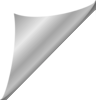
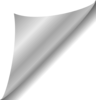
Adding clustering in search results

Changed region(s): [[0.0625, 0.09, 1.0, 1.0]]

diff --git a/peanut/photos/templates/photos/search_webview.html b/peanut/photos/templates/photos/search_webview.html
@@ -48,12 +48,13 @@
 		padding-right: 2px;
 		float:left;
 		position: relative;
+		cursor: pointer;
 		height: {{ imageSize|add:+2 }}px;
 	}
 	.ui-image-count {
 		position:absolute;
 		background-color: transparent;
-		color: #ffffff;
+		color: #000000;
 		top: 39px;
 		left: 37px;
 		font-size: 1em;
@@ -61,8 +62,15 @@
 		width: 39px;
 		height:39px;
 		line-height: 60px;
-		vertical-align: text-bottom;
 		padding-right: 2px;
+	}
+	.ui-image-page-turn {
+		background-color: transparent;
+		position:absolute;
+		top: 48px;
+		left:48px;
+		height: 30px;
+		width: 30px;
 	}
 	.text {
 		font-family: arial;
@@ -140,6 +148,25 @@
 			});
 		}
 		loadImages();
+
+		/*
+			used to display clusters
+		*/
+		$('div.ui-image').click(function() {
+			if ($(this).hasClass('cluster')) {
+				$(this).removeClass('cluster');
+				$(this).children('div').addClass('hidden');
+				current = $(this).next()
+				while (current.hasClass('hidden')){
+					current.show("fast");
+					current = current.next();
+				}
+			}
+			else {
+				window.location.href = $(this).attr('redirect');
+			}
+		});
+
 		var oldVal = "";
 
 		$("#input-search").on("keyup paste", function(){
@@ -178,45 +205,5 @@
 				});
 			}
 		});
-
-		var fixDivRunning = false;
-		function fixDiv() {
-			if (fixDiv == true) {
-				return;
-			}
-			fixDivRunning = true;
-			console.log("window scrolltop: " + $(window).scrollTop());
-			var currentFloatId = -1;
-			for (var i=0; i< $('div.ui-photo-block').length; i++){
-				var id = '#ui-photo-block-'+i;
-				console.log($(id).offset());
-				console.log($(id).height());
-				if ($(window).scrollTop() - $(id).offset().top - $(id).height() >= 0){
-					console.log("above the fold: " + $(id).attr('id'));
-					$(id).children('div.ui-time-header').each(function(){
-						$(this).removeClass('fixed-pos');
-					});
-				}
-				else {
-					if (currentFloatId < 0) {
-						currentFloatId = i;
-						$(id).children('div.ui-time-header').each(function(){
-							console.log("position fixed for: " + i);
-							$(this).addClass('fixed-pos');
-						});
-					}
-					else {
-						console.log("Not the top div: " + $(id).attr('id'));
-						$(id).children('div.ui-time-header').each(function(){
-								$(this).removeClass('fixed-pos');
-						});
-					}
-				}
-
-			}
-			fixDivRunning = false;
-		}
-		//$(window).scroll(fixDiv);
-		//fixDiv();
 		</script>
 </html>

diff --git a/peanut/photos/templates/photos/_timeline_block.html b/peanut/photos/templates/photos/_timeline_block.html
@@ -1,4 +1,5 @@
 {% load dictionary_extras %}
+{% load staticfiles %}
 
 <div class="ui-photo-block hidden">
 	<div class="ui-time-header">
@@ -6,18 +7,19 @@
 	</div>
 	{% for cluster in entry.clusterList %}
 		{% for imageEntry in cluster.photoblocks %}
-			{% if imageEntry.dist == None %}
-				<div class = "ui-image">
-					<a href="{{ thumbnailBasepath }}{{ imageEntry.photo.photoFilename }}"> 
-						<img data-lazy-src="{{ thumbnailBasepath }}{{ resultsDict.photoIdToThumb|lookup:imageEntry.photo.photoId }}" class="lazy" height="{{ imageSize }}px" width="{{ imageSize }}px" 
-						title="{% if debug %} TEXT: {{ imageEntry.photo.text }} | TIME: {{ imageEntry.photo.timeTaken }} | ORIG_CLASSIFICATIONS: {{ imageEntry.photo.classificationData }} {% endif %} "></a>
-					{% if cluster.count > 0 %}
-						<div class="ui-image-count text">
-							{{ cluster.count }}
-						</div>
-					{% endif %}
-				</div>
-			{% endif %}
+			<div class = "ui-image {% if imageEntry.dist == None and cluster.count > 0 %} cluster{% elif imageEntry.dist != None %}hidden {% else %} {% endif %}" redirect="{{ thumbnailBasepath }}{{ imageEntry.photo.photoFilename }}">
+					<img data-lazy-src="{{ thumbnailBasepath }}{{ resultsDict.photoIdToThumb|lookup:imageEntry.photo.photoId }}" class="lazy" height="{{ imageSize }}px" width="{{ imageSize }}px" 
+					title="{% if debug %} TEXT: {{ imageEntry.photo.text }} | TIME: {{ imageEntry.photo.timeTaken }} | ORIG_CLASSIFICATIONS: {{ imageEntry.photo.classificationData }} {% endif %} ">
+				
+				{% if imageEntry.dist == None and cluster.count > 0 %}
+					<div class="ui-image-page-turn">
+						<img src="{% static "page-fold-th.png" %}" height="100%" width="100%" />
+					</div>
+					<div class="ui-image-count text">
+						{{ cluster.count }}
+					</div>
+				{% endif %}
+			</div>
 		{% endfor %}
 	{% endfor %}
 </div>

diff --git a/peanut/photos/cluster_util.py b/peanut/photos/cluster_util.py
@@ -13,7 +13,7 @@ from photos import image_util
 import cv2
 import cv2.cv as cv
 
-### Clustering functions
+### Clustering/deduping functions
 
 """
 	Populates similarity table for a new photo
@@ -26,8 +26,7 @@ def addToClusters(photoId, threshold=None):
 		print "addToClusters: PhotoId {0} not found".format(photoId)
 		return 0
 
-	# check to see if photo has time_taken field. If not, ignore it.
-	if (curPhoto.new_filename == None):
+	if (curPhoto.thumb_filename == None):
 		return 0
 
 	if (threshold == None):
@@ -52,10 +51,8 @@ def addToClusters(photoId, threshold=None):
 	if (curHist == None):
 		return 0
 
-	rowCount = genSimilarityRowsFromDBQuery(curPhoto, curHist, photoQueryPre, threshold)
-	rowCount += genSimilarityRowsFromDBQuery(curPhoto, curHist, photoQueryPost, threshold)
-
-	return rowCount
+	genSimilarityRowsFromDBQuery(curPhoto, curHist, photoQueryPre, threshold)
+	genSimilarityRowsFromDBQuery(curPhoto, curHist, photoQueryPost, threshold)
 
 
 """
@@ -68,7 +65,6 @@ def genSimilarityRowsFromDBQuery(curPhoto, curHist, photoQuery, threshold, batch
 	if (batch == None):
 		batch = 5
 
-	rowCount = 0
 	keepGoing = True
 	loop = 0
 	while keepGoing == True:
@@ -76,31 +72,27 @@ def genSimilarityRowsFromDBQuery(curPhoto, curHist, photoQuery, threshold, batch
 		loop += 1
 		# pick them in batches to process
 		photoBatch = list(photoQuery[((loop-1)*batch):(batch*loop)])
-		dbOps = genSimilarityRowsFromList(curPhoto, curHist, photoBatch, threshold)
-		if (dbOps > 0):
-			rowCount += dbOps
+		if (genSimilarityRowsFromList(curPhoto, curHist, photoBatch, threshold))
 			keepGoing = True
-	return rowCount
 
 
 """
 	Compares curPhoto to each photo in photoList and adds a row if under threshold
-	Returns count of DB operations: adds or modified
+	Returns True if any rows were added (useful to figure out if you need to keep going)
 
 """
 
 def genSimilarityRowsFromList(curPhoto, curHist, photoList, threshold):
-	count = 0
+	returnVal = False
 	for photo in photoList:
-		print "P: {0}, {1}".format(photo.id, photo.time_taken)
 		if (doesSimilarityRowAlreadyExists(curPhoto, photo)):
-			count += 1
+			returnVal = True
 			continue
 		dist = getSimilarityFromHistAndPhoto(curHist, photo.id)
 		if (dist < threshold):
 			if (addSimilarityRow(curPhoto, photo, dist)):
-				count += 1
-	return count
+				returnVal = True
+	return returnVal
 
 """
 	Adds/updates a specific row to similarity table, if it doesn't exist.
@@ -124,7 +116,6 @@ def addSimilarityRow(photo1, photo2, sim):
 		simRow = Similarity(	photo_1 = photo1,
 								photo_2 = photo2,
 								similarity = sim)
-		print simRow
 	elif (simQuery.count() == 1):
 		if (simQuery[0].similarity == sim):
 			return False
@@ -150,7 +141,6 @@ def doesSimilarityRowAlreadyExists(photo1, photo2):
 		photo2 = tempPhoto
 	sim = Similarity.objects.all().filter(photo_1=photo1).filter(photo_2=photo2) 
 	if (sim.count() > 0):
-		print sim[0] 
 		return True
 	return False
 
@@ -189,18 +179,15 @@ def getSpatialHist(photoId):
 
 	origPath = '/home/derek/user_data/' + str(userId) + '/'
 
-	# Check to make sure that a thumbnail exists
-	photo_thumbnail = image_util.imageThumbnail(str(photo.id)+'.jpg', 156, userId)
-	if (photo_thumbnail == None):
-		print "No thumbnail found for userId/photoId: {0}/{1}".format(userId, photoId)
-		return None
-	else:
-		photo_color = cv2.imread(origPath+photo_thumbnail)
-		photo_gray = cv2.cvtColor(photo_color, cv.CV_RGB2GRAY)
-		photo_gray = cv2.equalizeHist(photo_gray)
+	if (photo.full_filename and not photo.thumb_filename):
+		image_util.createThumbnail(photo) # check in case thumbnails haven't been created
 
-		lbp = cv2.elbp(photo_gray, 1, 8)
-		return cv2.spatial_histogram(lbp, 256, 8, 8, True)
+	photo_color = cv2.imread(origPath+photo.thumb_filename)
+	photo_gray = cv2.cvtColor(photo_color, cv.CV_RGB2GRAY)
+	photo_gray = cv2.equalizeHist(photo_gray)
+
+	lbp = cv2.elbp(photo_gray, 1, 8)
+	return cv2.spatial_histogram(lbp, 256, 8, 8, True)
 
 """
 	Returns distance between two histograms 
@@ -212,14 +199,14 @@ def compHist(h1, h2):
 
 """
 	Returns distance between two histograms using ChiSqr
-	Scale: 0 - infinity (lower the better match)
+	Scale: 0 - infinity (lower is better)
 """
 def compHistChiSqr(h1, h2):
 	return cv2.compareHist(h1, h2, cv.CV_COMP_CHISQR)
 
 """
 	Returns distance between two histograms using Intersection
-	Scale: 0 - 100 (lower the better match)
+	Scale: 0 - 100 (lower is better)
 """
 def compHistIntersect(h1, h2):
 	return 100*(1 - cv2.compareHist(h1, h2, cv.CV_COMP_INTERSECT))

diff --git a/peanut/photos/gallery_util.py b/peanut/photos/gallery_util.py
@@ -8,6 +8,9 @@ from dateutil.relativedelta import relativedelta
 from haystack.query import SearchQuerySet
 from django.db.models import Q
 
+"""
+	Splits a DB query of Photo objects into timeline view with headers and set of photo clusters
+"""
 
 def splitPhotosFromDBbyMonth(userId, photoSet=None, groupThreshold=None):
 	if (photoSet == None):
@@ -38,6 +41,10 @@ def splitPhotosFromDBbyMonth(userId, photoSet=None, groupThreshold=None):
 
 	return photos
 
+"""
+	Splits a SearchQuerySet into timeline view with headers and set of photo clusters
+"""
+
 def splitPhotosFromIndexbyMonth(userId, photoSet=None, threshold=None):
 	if (photoSet == None):
 		photoSet = 	SearchQuerySet().filter(userId=userId)
@@ -65,6 +72,10 @@ def splitPhotosFromIndexbyMonth(userId, photoSet=None, threshold=None):
 		photos.append(entry)
 		
 	return photos
+
+"""
+	Returns clusters for a set of photos based on the threshold
+"""
 
 
 def getClusters(photoSet, threshold):
@@ -97,8 +108,10 @@ def getClusters(photoSet, threshold):
 		   --> count
 		cluster
 		   --> photoblocks
-		   	   ---> photo
-		   	   ---> dist (shortest distance to any photo)
+		   	   --> entry
+		   	       --> photo
+		   	       --> dist (shortest distance to any photo in set)
+		   	   --> ...
 		   --> count
 	'''
 	clusterList = list()

diff --git a/peanut/one_time/populateSimilarity.py b/peanut/one_time/populateSimilarity.py
@@ -12,7 +12,7 @@ os.environ.setdefault("DJANGO_SETTINGS_MODULE", "peanut.settings")
 
 from photos.models import Photo, User, Classification, Similarity
 from peanut import settings
-from photos import cluster_util
+from photos import cluster_util, image_util
 
 
 def main(argv):
@@ -24,12 +24,10 @@ def main(argv):
 	print "Starting to populate similarity table"
 
 	allUsers = User.objects.all().filter(id__gt=38) #ignores first set of accounts
-	totalRows = 0
 
 	for user in allUsers:
-		if (userId):
-			if (user.id != userId):
-				continue;
+		if (userId and user.id != userId):
+			continue;
 		photoQuery = Photo.objects.all().filter(user_id=user.id).order_by('time_taken')
 		print "userId {0}: | Photos: {1}".format(user.id, photoQuery.count())
 
@@ -37,11 +35,9 @@ def main(argv):
 		userRows = 0
 		for photo in photoQuery:
 			if (photo.full_filename and not photo.thumb_filename):
-				print photo.id
-			#userRows += cluster_util.addToClusters(photo.id)
-		print "DB adds: {0}".format(userRows)
-		totalRows += userRows
-	print "Total entries generated: {0}".format(totalRows)
+				image_util.createThumbnail(photo) # check in case thumbnails haven't been created
+			cluster_util.addToClusters(photo.id)
+		print "Done"
 
 
 if __name__ == "__main__":
